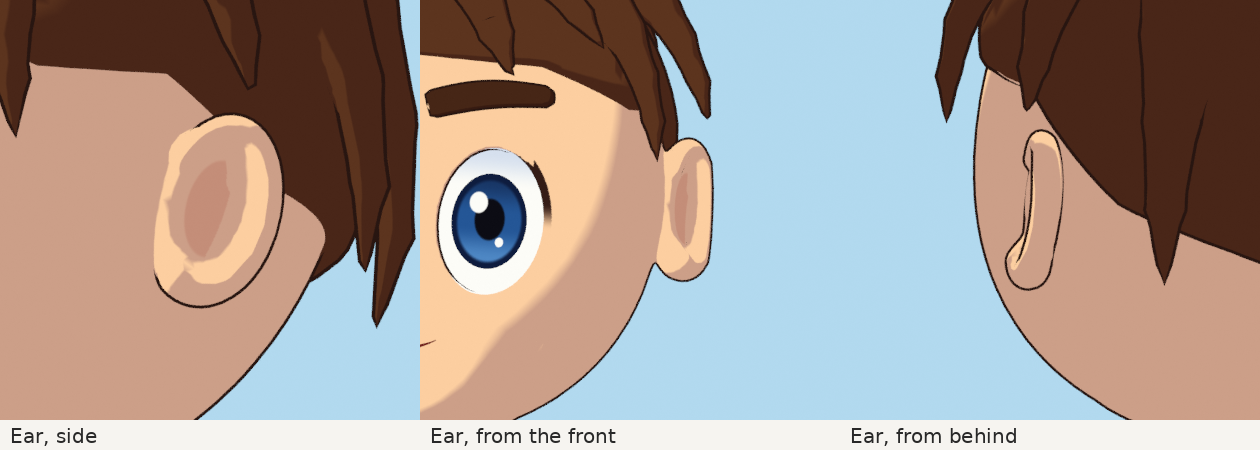
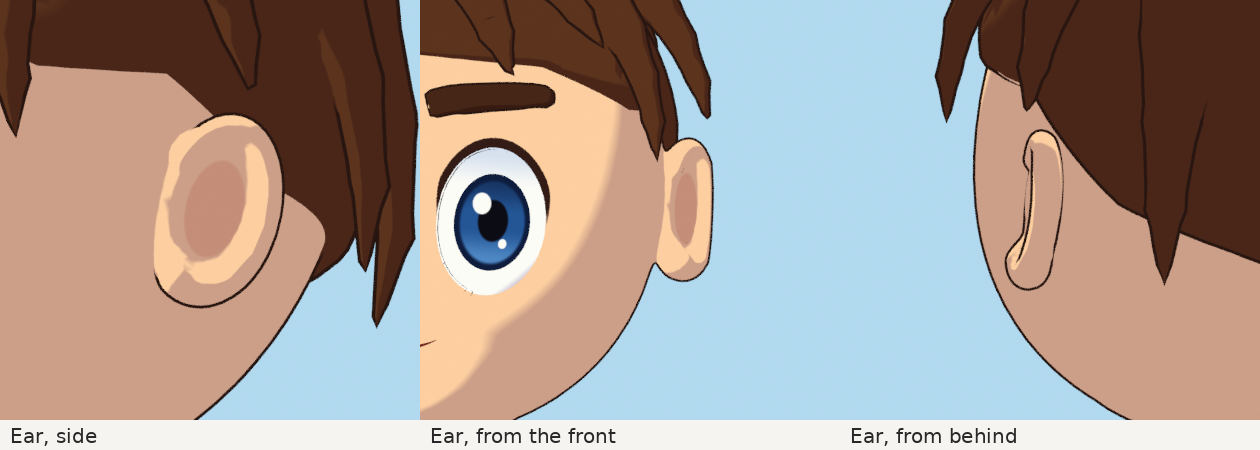
Kai: eyes sit on the face instead of sinking into the head
The eye whites were 1.2-1.6 cm below the skin, on a nearly flat
20.7 cm sphere. Away from straight-on views the socket wall showed
around them, so the eyes looked sunk into the skull.

- Eyeballs are round (R = 10 cm), and the centre of the white sits
  0.1 cm proud of the face.
- A soft dome around each eye holds the skin rim 0.45 cm above the
  eyeball all round, just enough for the hidden lids. The eyes bulge
  out of the face in silhouette.
- The dome shades with the original face's normals (custom normals,
  carried in the FBX), so there is no shadow ring round the eyes.
- Lids are laid out by angle about their hinge axis. Closing them is
  an exact slide at any eyeball size (verified 100% coverage). Lid
  width and offsets are trimmed to fit the shallower rim.
- The inked upper lid is a painted line on the rim: bold across the
  top, tapering away by mid-height.
- The clearance audit checks that the lids rest hidden under the
  skin and that the eye white is covered outside the opening.

Blind A/B, 3 reviewers: the new eyes won 3-0, all high confidence.

Claude-Session: https://claude.ai/code/session_016GpJUtHsovbhGp1GMTd1Wt

Changed region(s): [[0.3405, 0.3111, 0.4643, 0.6222], [0.3714, 0.2178, 0.4333, 0.2489], [0.3714, 0.1556, 0.4333, 0.1867]]

diff --git a/tools/kai_geometry.py b/tools/kai_geometry.py
@@ -249,7 +249,8 @@ def sdf_normals(P, sdf, h=0.02):
 # Head
 # ---------------------------------------------------------------------------
 EAR = dict(dy=1.6, dz=-3.2)                            # where the ear's front edge meets the head
-EYE = dict(x=6.9, dz=-3.4, a=4.0, b=5.3, tilt=5.0)    # centre, half width, half height (cm), lean of the tops (deg)
+EYE = dict(x=6.9, dz=-3.4, a=4.0, b=5.3, tilt=5.0,   # centre, half width, half height (cm), lean of the tops (deg)
+           R=10.0, pop=0.1, rim=0.45)             # eyeball radius, eye white's centre above the face, skin rim above it
 IRIS = dict(a=2.75, b=3.45)                            # iris half width and half height
 BROW = dict(dz=4.9, x0=2.3, x1=10.4, arch=0.5, slant=0.35, w=1.95, t=0.9)
 MOUTH = dict(dz=-12.4)
@@ -361,38 +362,72 @@ def head_base_sdf(P):
     return d
 
 
+_EYES = {}
 _FACE = {}
 
 
-def face_layout():
-    """Eye pivots and frames, brow and mouth placement, all fitted to the head surface."""
-    if _FACE: return _FACE
-    eyes = {}
+def eye_layout():
+    """Eye pivots and frames. Each eye is a round eyeball (EYE["R"]) whose centre sits EYE["pop"] proud of the face, so
+    the eyes bulge out of the head rather than sitting in sockets."""
+    if _EYES: return _EYES
     for side, s in SIDES:
         c = ray_hits(np.array([EYE["x"] * s, -40.0, HEAD_C[2] + EYE["dz"]]), np.array([0.0, 1.0, 0.0]), head_base_sdf)[0]
         n = nrm(sdf_normals(c, head_base_sdf)[0] * 0.75 + FWD * 0.25)    # look a little more forward than the skin
         u0 = nrm(np.cross(UP, n)); v0 = nrm(np.cross(n, u0))           # u0 toward +X, v0 up
         tilt = -math.radians(EYE["tilt"]) * s                             # the tops of the eyes lean outward
         u = nrm(u0 * math.cos(tilt) + v0 * math.sin(tilt)); v = nrm(np.cross(n, u))
-        ang = np.linspace(0, 2 * math.pi, 32, endpoint=False)
-        ring = c + np.outer(np.cos(ang) * EYE["a"] * 1.2, u) + np.outer(np.sin(ang) * EYE["b"] * 1.2, v)
-        best = None
-        for R in np.arange(9.0, 26.0, 0.5):                              # sphere that best follows the skin
-            P = c - n * R
-            dirs = (ring - P) / np.linalg.norm(ring - P, axis=1, keepdims=True)
-            hits = ray_hits(ring + dirs * 8.0, -dirs, head_base_sdf, t_max=16.0, steps=320)   # from outside, inward
-            dist = np.linalg.norm(hits - P, axis=1)
-            spread = dist.max() - dist.min()
-            if best is None or spread < best[0]: best = (spread, R, P, dist.min())
-        _, R, P, dmin = best
-        eyes[side] = dict(center=c, n=n, u=u, v=v, pivot=P, R=min(dmin, R) - 0.62, a=EYE["a"], b=EYE["b"])
+        R = EYE["R"]
+        _EYES[side] = dict(center=c, n=n, u=u, v=v, pivot=c + n * (EYE["pop"] - R), R=R, a=EYE["a"], b=EYE["b"])
+    return _EYES
+
+
+def _eye_dome_weight(P, e):
+    """1 over the eye and just around it, fading to 0 by 1.8 times the eye's size; only in front of the pivot."""
+    q = P - e["pivot"]
+    rho = np.hypot(q @ e["u"] / e["a"], q @ e["v"] / e["b"])
+    return (1 - _sstep(1.2, 1.8, rho)) * _sstep(0.0, 3.0, q @ e["n"])
+
+
+def head_skin_sdf(P):
+    """Head with ears, and the skin around each eye drawn into a soft dome that sits EYE["rim"] above the eyeball,
+    so the rim of the eye opening is the same small height all round (room for the hidden lids, no deep socket)."""
+    d = head_base_sdf(P)
+    for side, s in SIDES:
+        e = eye_layout()[side]
+        w = _eye_dome_weight(P, e); m = w > 0
+        if m.any():
+            dome = np.linalg.norm(P[m] - e["pivot"], axis=1) - (e["R"] + EYE["rim"])
+            d[m] = d[m] * (1 - w[m]) + dome * w[m]
+    return d
+
+
+def eye_dome_normals(P, N):
+    """Shading normals over the eye domes taken from the face without them (head_base_sdf): the domes push the eyes
+    out in silhouette, but the face still shades as one smooth surface, with no shadow ring round the eyes."""
+    N = np.array(N, float)
+    for side, s in SIDES:
+        e = eye_layout()[side]
+        q = P - e["pivot"]
+        rho = np.hypot(q @ e["u"] / e["a"], q @ e["v"] / e["b"])
+        w = (1 - _sstep(1.8, 2.3, rho)) * _sstep(0.0, 3.0, q @ e["n"])   # the whole dome, fading out past its edge
+        m = w > 0
+        if not m.any(): continue
+        Nb = sdf_normals(P[m], head_base_sdf, h=0.06)
+        Nm = N[m] * (1 - w[m, None]) + Nb * w[m, None]
+        N[m] = Nm / np.linalg.norm(Nm, axis=1, keepdims=True)
+    return N
+
+
+def face_layout():
+    """Eye pivots and frames, brow and mouth placement, all fitted to the skin."""
+    if _FACE: return _FACE
     brows = {}
     for side, s in SIDES:
         c = ray_hits(np.array([(BROW["x0"] + BROW["x1"]) * 0.5 * s, -40.0, HEAD_C[2] + BROW["dz"]]),
-                     np.array([0.0, 1.0, 0.0]), head_base_sdf)[0]
-        brows[side] = dict(center=c, n=sdf_normals(c, head_base_sdf)[0])
-    mc = ray_hits(np.array([0.0, -40.0, HEAD_C[2] + MOUTH["dz"]]), np.array([0.0, 1.0, 0.0]), head_base_sdf)[0]
-    _FACE.update(eyes=eyes, brows=brows, mouth=dict(center=mc, n=sdf_normals(mc, head_base_sdf)[0]))
+                     np.array([0.0, 1.0, 0.0]), head_skin_sdf)[0]
+        brows[side] = dict(center=c, n=sdf_normals(c, head_skin_sdf)[0])
+    mc = ray_hits(np.array([0.0, -40.0, HEAD_C[2] + MOUTH["dz"]]), np.array([0.0, 1.0, 0.0]), head_skin_sdf)[0]
+    _FACE.update(eyes=eye_layout(), brows=brows, mouth=dict(center=mc, n=sdf_normals(mc, head_skin_sdf)[0]))
     return _FACE
 
 
@@ -407,7 +442,7 @@ def eye_window_sdf(P, e):
 
 
 def head_sdf(P):
-    d = head_base_sdf(P)
+    d = head_skin_sdf(P)
     F = face_layout()
     for side, s in SIDES:
         d = smax(d, -eye_window_sdf(P, F["eyes"][side]), 0.2)
@@ -430,9 +465,14 @@ def _grid(nx, ny):
 def sphere_patch(e, radius, xs, ys):
     """Grid on the eye's sphere, parametrised by tangent-plane coordinates (x along u, y along v)."""
     X, Y = np.meshgrid(xs, ys)
-    dirs = e["n"][None] + (X.ravel()[:, None] * e["u"][None] + Y.ravel()[:, None] * e["v"][None]) / e["R"]
-    dirs /= np.linalg.norm(dirs, axis=1, keepdims=True)
-    return e["pivot"] + dirs * radius, X.ravel(), Y.ravel()
+    return e["pivot"] + sphere_dirs(e, X.ravel(), Y.ravel()) * radius, X.ravel(), Y.ravel()
+
+
+def sphere_dirs(e, X, Y):
+    """Directions from the eye's pivot to the points that sit X, Y across the eye (along u, v) on its sphere."""
+    X, Y = X / e["R"], Y / e["R"]
+    return (X[:, None] * e["u"][None] + Y[:, None] * e["v"][None]
+            + np.sqrt(np.maximum(1 - X * X - Y * Y, 0.0))[:, None] * e["n"][None])
 
 
 def keep_faces(faces, keep_vert):
@@ -453,30 +493,32 @@ def eye_pieces(side):
     nr, na = 10, 40
     rr = np.linspace(0, 1, nr); aa = np.linspace(0, 2 * math.pi, na, endpoint=False)
     X = np.outer(rr, np.cos(aa)).ravel() * IRIS["a"]; Y = np.outer(rr, np.sin(aa)).ravel() * IRIS["b"]
-    dirs = e["n"][None] + (X[:, None] * e["u"][None] + Y[:, None] * e["v"][None]) / R
-    V = e["pivot"] + dirs / np.linalg.norm(dirs, axis=1, keepdims=True) * (R + 0.08)
+    V = e["pivot"] + sphere_dirs(e, X, Y) * (R + 0.08)
     F = []
     for i in range(nr - 1):
         for j in range(na):
             j2 = (j + 1) % na
             F.append((i * na + j, i * na + j2, (i + 1) * na + j2, (i + 1) * na + j))
     out["iris"] = (V, np.array(F), np.column_stack([X / IRIS["a"], Y / IRIS["b"]]))
-    # lids: skin-coloured caps that rest hidden under the skin above and below the eye and rotate over it. They are
-    # laid out by angle (latitude about the lid axis), so a rotation by lid_close_angle covers the eye exactly.
-    xs = np.linspace(-a - 1.8, a + 1.8, 28)
+    # lids: skin-coloured caps that rest hidden under the skin above and below the eye and swing over it. Each column
+    # sits at a fixed distance x along the hinge axis u, and its rows are angles about that axis, so turning the lid
+    # bone by lid_close_angle slides the lid exactly over the eye at any eyeball size.
+    xs = np.linspace(-a - 1.1, a + 1.1, 28)
     t = np.linspace(0, 1, 18)
-    for name, sign, radius in (("lid_upper", 1.0, R + 0.26), ("lid_lower", -1.0, R + 0.14)):
+    for name, sign, radius in (("lid_upper", 1.0, R + 0.22), ("lid_lower", -1.0, R + 0.13)):
         edge = (b + 0.35 if sign > 0 else b + 0.5) - (0.3 if sign > 0 else 0.25) * b * np.clip(xs / a, -1.2, 1.2) ** 2
-        a0 = np.arctan(edge / R)                                             # latitude of the lid's edge at rest
+        ca = np.sqrt(1 - (xs / R) ** 2)                                      # cos of the column's angle off the n-v plane
+        phi0 = np.arcsin(edge / (R * ca))                                    # angle of the lid's edge about u, at rest
         span = lid_close_angle(side, "upper" if sign > 0 else "lower") + 0.12
-        lat = sign * (a0[None] + t[:, None] * span)                          # rows from the edge outward
-        lon = np.arctan(xs / R)[None].repeat(len(t), 0)
-        dirs = (np.cos(lat)[..., None] * (np.cos(lon)[..., None] * e["n"] + np.sin(lon)[..., None] * e["u"])
-                + np.sin(lat)[..., None] * e["v"]).reshape(-1, 3)
+        phi = sign * (phi0[None] + t[:, None] * span)                        # rows from the edge outward
+        X = np.repeat((xs / radius * (radius / R))[None], len(t), 0)         # sin of the column's angle
+        C = np.sqrt(1 - X ** 2)
+        dirs = (X[..., None] * e["u"] + C[..., None] * (np.cos(phi)[..., None] * e["n"]
+                                                        + np.sin(phi)[..., None] * e["v"])).reshape(-1, 3)
         V = e["pivot"] + dirs * radius
         F = _grid(len(xs), len(t))
         if sign < 0: F = F[:, ::-1]
-        dist = (np.abs(lat) - a0[None]) * R                                  # cm from the lid's edge
+        dist = (np.abs(phi) - phi0[None]) * R * ca[None]                     # cm from the lid's edge
         out[name] = (V, F, np.column_stack([(xs[None].repeat(len(t), 0) / a).ravel(), dist.ravel()]))
     return out
 
@@ -486,8 +528,8 @@ def lid_close_angle(side, which="upper"):
     of the eye, the lower lid rises to the middle."""
     e = face_layout()["eyes"][side]; R, b = e["R"], e["b"]
     if which == "upper":
-        return float(np.arctan((b + 0.35) / R) + np.arctan((b + 0.25) / R))
-    return float(np.arctan((b + 0.5) / R))
+        return float(np.arcsin((b + 0.35) / R) + np.arcsin((b + 0.25) / R))
+    return float(np.arcsin((b + 0.5) / R))
 
 
 def surface_offset(points, sdf, offset, dirs=None):
@@ -504,8 +546,8 @@ def brow_piece(side):
     us = np.linspace(0, 1, 22)
     x = (BROW["x0"] + (BROW["x1"] - BROW["x0"]) * us) * s
     zc = HEAD_C[2] + BROW["dz"] + BROW["arch"] * np.sin(math.pi * us) + BROW["slant"] * us
-    spine = surface_offset(np.column_stack([x, np.full_like(x, -40.0), zc]), head_base_sdf, 0.45)
-    N = sdf_normals(spine, head_base_sdf)
+    spine = surface_offset(np.column_stack([x, np.full_like(x, -40.0), zc]), head_skin_sdf, 0.45)
+    N = sdf_normals(spine, head_skin_sdf)
     T = np.gradient(spine, axis=0); T /= np.linalg.norm(T, axis=1, keepdims=True)
     W = np.cross(N, T); W /= np.linalg.norm(W, axis=1, keepdims=True)
     width = BROW["w"] * (0.95 + 0.15 * np.sin(math.pi * us)) * (1 - 0.25 * us)            # thick and straight
@@ -552,7 +594,7 @@ def mouth_piece():
         bot = np.minimum(bot, top - 0.04)
         x = S * sh["w"]; y = bot + (top - bot) * T
         pts = np.column_stack([x.ravel(), np.full(x.size, -40.0), c[2] + y.ravel()])
-        keys[name] = surface_offset(pts, head_base_sdf, 0.07)
+        keys[name] = surface_offset(pts, head_skin_sdf, 0.07)
     local = np.column_stack([S.ravel(), T.ravel()])
     return keys["rest"], F, local, {k: v for k, v in keys.items() if k != "rest"}
 

diff --git a/tools/kai_clearance.py b/tools/kai_clearance.py
@@ -60,6 +60,12 @@ bad += check("neck hidden in the tunic and collar (below the collar)", head,
 ears = lambda P: np.any([(G.ear_zone(P, s) < 1.0) & (G.ear_local(P, s)[:, 2] > 0.0) for _, s in G.SIDES], axis=0)
 for style in ("hair_tousled", "hair_spiky"):
     bad += check(f"ears clear of the {style.split('_')[1]} hair", head, G.PARTS[style][0], ears, False, 0.02)
+for side, s in G.SIDES:
+    E, e = G.eye_pieces(side), G.face_layout()["eyes"][side]
+    lids = np.vstack([E["lid_upper"][0], E["lid_lower"][0]])
+    bad += check(f"eyelids rest hidden under the skin ({side})", lids, G.head_sdf, lambda P: np.ones(len(P), bool), True, 0.1)
+    rho = lambda P: np.hypot((P - e["pivot"]) @ e["u"] / e["a"], (P - e["pivot"]) @ e["v"] / e["b"])
+    bad += check(f"eye white covered outside the opening ({side})", E["sclera"][0], G.head_sdf, lambda P: rho(P) > 1.06, True, 0.1)
 sash = surface(G.sash_sdf, G.SASH_BOX)
 bad += check("sash band and tails sit on the tunic (knot excluded)", sash, G.tunic_sdf,
              lambda P: np.linalg.norm(P - G.sash_knot(), axis=1) > 2.6, False, 0.02)

diff --git a/tools/kai_textures.py b/tools/kai_textures.py
@@ -116,9 +116,12 @@ def paint_head(a):
             e = F["eyes"][side]
             x, y, depth = eye_coords(Pb, e)
             r = np.sqrt(x * x + y * y)
-            # the inside wall of the eye opening: a bold dark line along the top, like an inked upper lid
-            wall = (r < 1.12) & (depth < 0.9) & (y > -0.05)
-            c[wall] = mix(c[wall], PAL["lash"], sstep(-0.05, 0.3, y[wall]))
+            # an inked upper lid: the top half of the opening's wall, and a line on the skin rim that is bold across
+            # the top and tapers away by the middle of each side
+            rim = depth > G.EYE["rim"] - 0.08
+            th = 0.13 * sstep(-0.05, 0.6, y)
+            line = (r < 1.0 + th) & (depth < G.EYE["rim"] + 0.4) & (y > -0.05) & (~rim | (r > 0.97))
+            c[line] = mix(c[line], PAL["lash"], sstep(-0.05, 0.25, y[line]))
         # the hollow of each ear: a crisp, slightly darker oval on the bowl floor, so the ear reads in any light
         for side, s in G.SIDES:
             L = G.ear_local(Pb, s) / G.EAR_K

diff --git a/tools/build_kai.py b/tools/build_kai.py
@@ -264,11 +264,11 @@ PARTS, OFFS, PIECES = {}, {}, {}
 for slot, (name, h, budget, tex, default) in SLOTS.items():
     pieces = build_pieces(slot)
     ob, offs = assemble(slot, pieces, CHAR if default else ALT)
-    if slot == "head":                           # toon shading normals for the ears (see G.ear_normals)
+    if slot == "head":                           # toon shading normals for the ears and eye domes (see G)
         me = ob.data; Pv = np.empty(len(me.vertices) * 3); me.vertices.foreach_get("co", Pv); Pv = Pv.reshape(-1, 3)
         Nv = np.empty(len(me.vertices) * 3); me.vertex_normals.foreach_get("vector", Nv); Nv = Nv.reshape(-1, 3)
         nb = len(pieces[0].V)
-        Nv[:nb] = G.ear_normals(Pv[:nb], Nv[:nb])
+        Nv[:nb] = G.eye_dome_normals(Pv[:nb], G.ear_normals(Pv[:nb], Nv[:nb]))
         me.normals_split_custom_set_from_vertices(Nv.tolist())
     nm = 2 if slot == "head" else 1
     unwrap(ob, nm)
